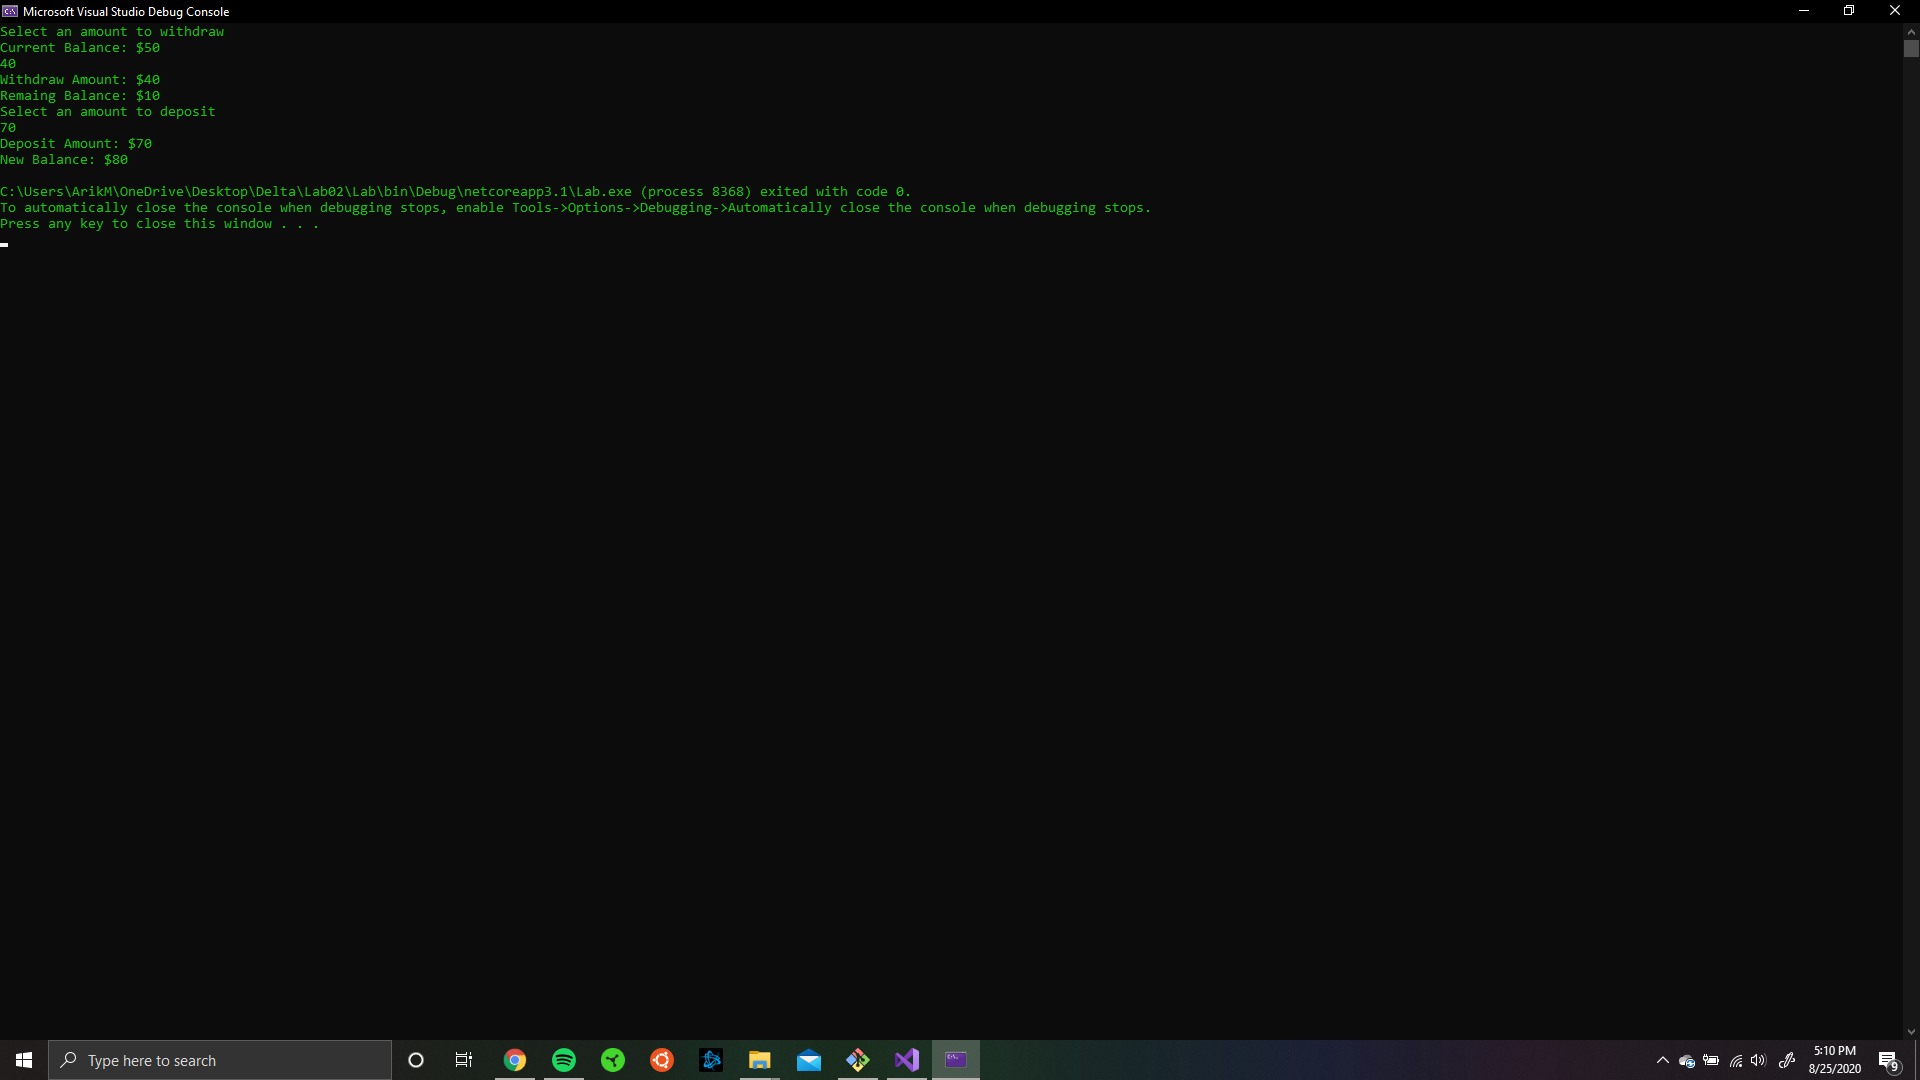
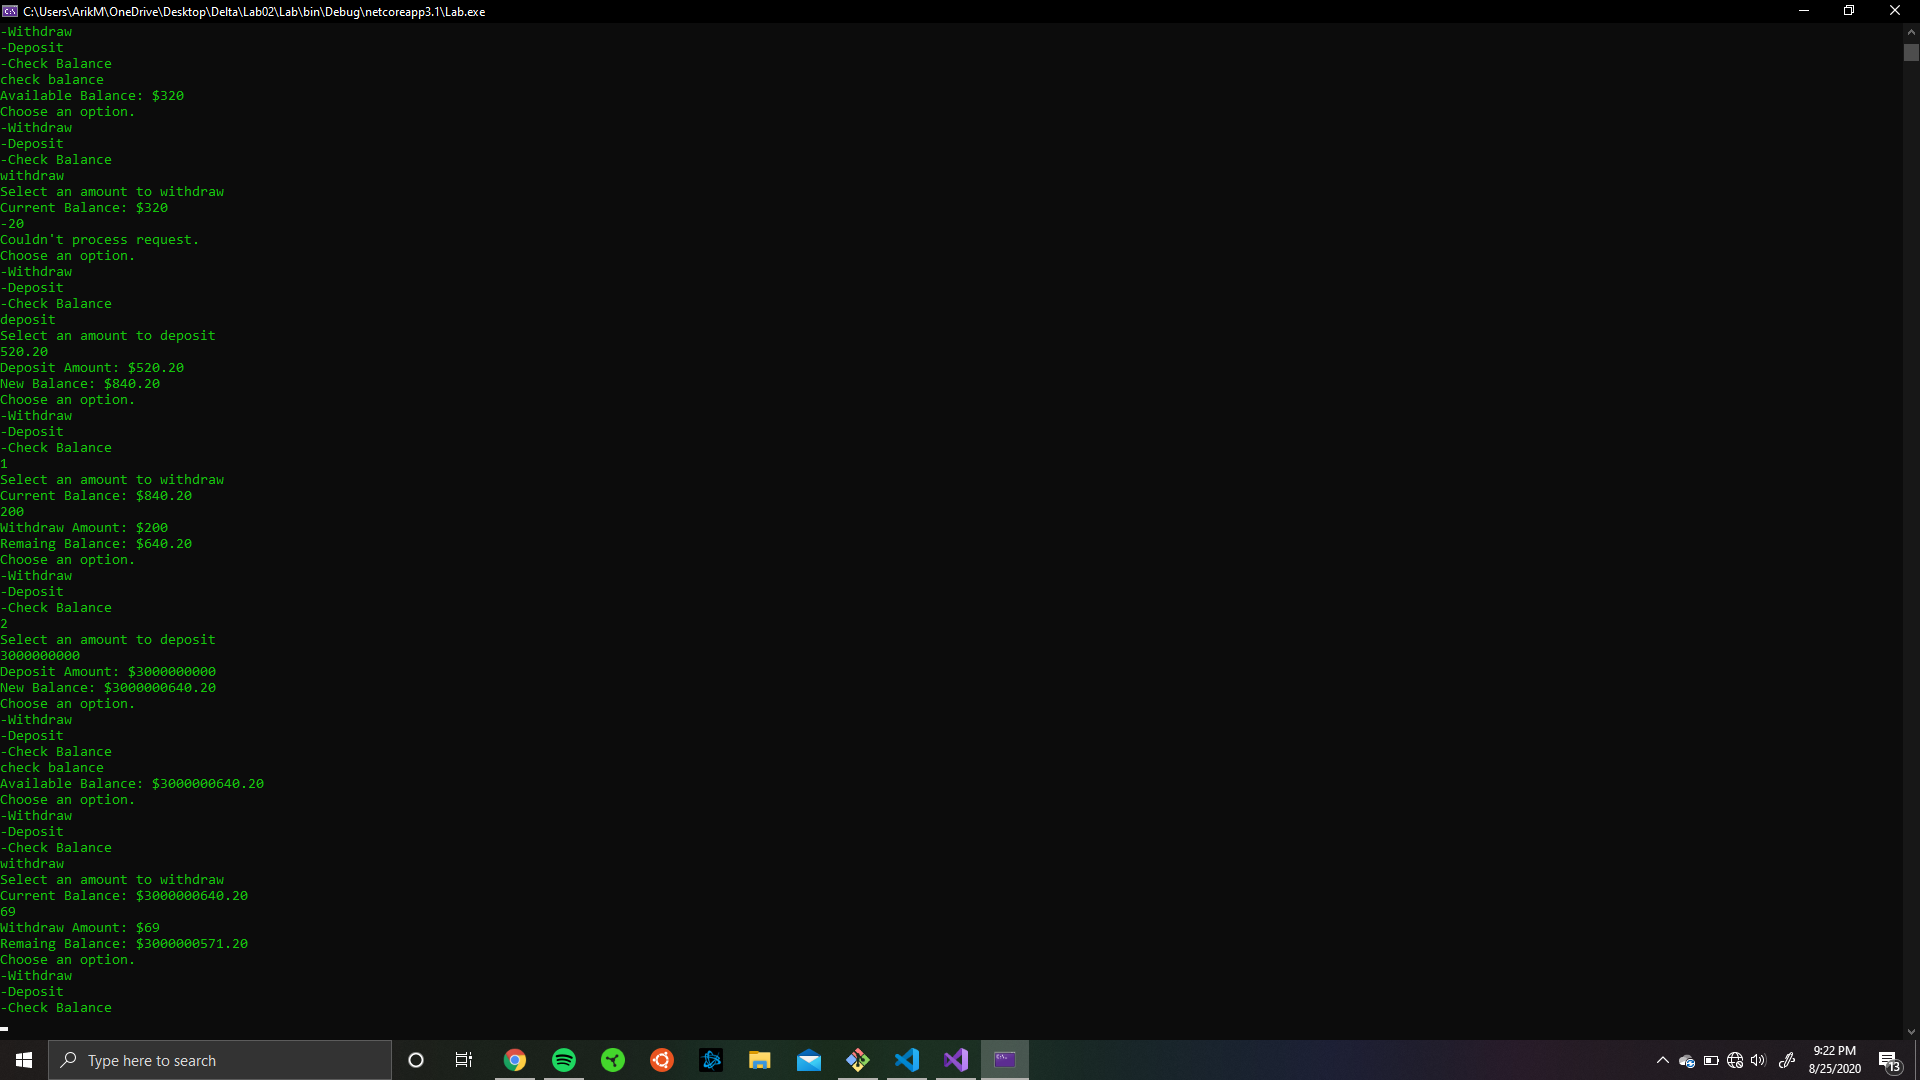
added method selector updated readme

diff --git a/Lab/Program.cs b/Lab/Program.cs
@@ -11,13 +11,13 @@ namespace Lab
         static void Main(string[] args)
         {
 
-            WithrawRequest();
-            DepositRequest();
+            ChooseMethod();  
            
         }
 
         static public decimal ViewBalance(decimal balance)
         {
+            Console.WriteLine($"Available Balance: ${balance}");
             return balance;
         }
 
@@ -59,6 +59,7 @@ namespace Lab
                 balance = balance + depositAmount;
                 Console.WriteLine($"Deposit Amount: ${depositAmount} ");
                 Console.WriteLine($"New Balance: ${balance}");
+                Balance = balance;
                 return balance;
             }
             else
@@ -84,6 +85,38 @@ namespace Lab
             string input = Console.ReadLine();
             decimal deposit = Convert.ToDecimal(input);
             return Deposit(Balance, deposit);
+        }
+        static public void ChooseMethod()
+        {
+            int run = 0;
+            while (run == 0)
+            {
+                Console.WriteLine("Choose an option.");
+                Console.WriteLine("-Withdraw");
+                Console.WriteLine("-Deposit");
+                Console.WriteLine("-Check Balance");
+                string input = Console.ReadLine().ToLower();
+                if (input == "withdraw" || input == "1")
+                {
+                    WithrawRequest();
+                    continue;
+                }
+                if (input == "deposit" || input == "2")
+                {
+                    DepositRequest();
+                    continue;
+                }
+                if (input == "check balance" || input == "3")
+                {
+                    ViewBalance(Balance);
+                    continue;
+                }
+                if (input == "")
+                {
+                    break;
+                }
+            }
+
         }
         static public bool NotNegative(decimal value)
         {

diff --git a/Lab.Test/Test.cs b/Lab.Test/Test.cs
@@ -37,5 +37,25 @@ namespace Lab.Test
             decimal result = Program.Deposit(balance, deposit);
             Assert.Equal(result, expect);
         }
+        [Fact]
+        public void WithdrawTest2()
+        {
+            decimal balance = 20;
+            decimal withdraw = (-30);
+
+            bool result = Program.Withdraw(balance, withdraw) == 50;
+
+            Assert.False(result); 
+        }
+        [Fact]
+        public void DepositTest2()
+        {
+            decimal balance = 20;
+            decimal deposit = (-30);
+
+            bool result = Program.Withdraw(balance, deposit) == -10;
+
+            Assert.False(result);
+        }
     }
 }

diff --git a/README.md b/README.md
@@ -5,21 +5,38 @@
 ### Program Specifications
 Using Test Driven Development, build out a console application that mocks the functionality of an ATM. Your solution should include the following methods:
 
-### Main method
-+ Call the user interface method to activate the application
-+ Testable external methods:
-### ViewBalance()
-+ Functionality: Returns the value of the current balance
-+ Return: decimal
-+ Test to ensure that the balance properly shows the correct amount after each transaction
-### Withdraw()
-+ Functionality: Subtracts money from the balance
-+ Return: decimal
-+ Do not allow the user to withdraw more money than what’s available.
-+ Do not allow the user to withdraw a value less than zero.
-### Deposit()
-+ Return: decimal
-+ Functionality: Adds money to the balance
-+ Do not allow the user to deposit a negative amount
-+ Variable to hold the current Balance of the account.
-+ Make this a static public decimal Balance variable, declared above the Main() method. This will allow you to access the Balance variable anywhere in this Program.cs file.
++ ### Main method
+  + Call the user interface method to activate the application
+### Testable external methods:
+## ViewBalance()
+  + Functionality: Returns the value of the current balance
+  + Return: decimal
+  + Test to ensure that the balance properly shows the correct amount after each transaction
+## Withdraw()
+  + Functionality: Subtracts money from the balance
+  + Return: decimal
+  + Do not allow the user to withdraw more money than what’s available.
+  + Do not allow the user to withdraw a value less than zero.
+## Deposit()
+  + Return: decimal
+  + Functionality: Adds money to the balance
+  + Do not allow the user to deposit a negative amount
+## Variable to hold the current Balance of the account.
+  + Make this a static public decimal Balance variable, declared above the Main() method. This will allow you to access the Balance variable anywhere in this Program.cs file.
+### User interface that prompts the user for standard ATM operations that links to each of the above external methods
+  + Return : void
+  + Keep asking the user to choose a transaction until they choose to ‘exit’ the application. (while loop??)
+  + This method is where you will want to hold all of your Console.ReadLines.
+  + This method does NOT need to be tested.
+## A few things to keep in mind:
+  + Make sure the user can’t go below a zero balance.
+  + You cannot unit test console WriteLine or Readlines.
+  + Make sure your methods are just returning values and not reading input from the console.
+  + Remember to use the proper data types while working within the program. Money is usually represented by decimals.
+  + All methods within the program class should start their method signature with static public followed by the return type and method name. Example public static void UserInterface()
+## Unit Tests
+  + Write unit tests in a new project using the XUnit library. Test the functionality for the above application. Here are the testing requirements:
+
+  + Test every method/action (that does not require user input); there should be a passing valid input, and a passing invalid input.
+  + Have at least 2 tests for every non-void method.
+  + A failing test, is not a valid test - even if the failure is expected.
